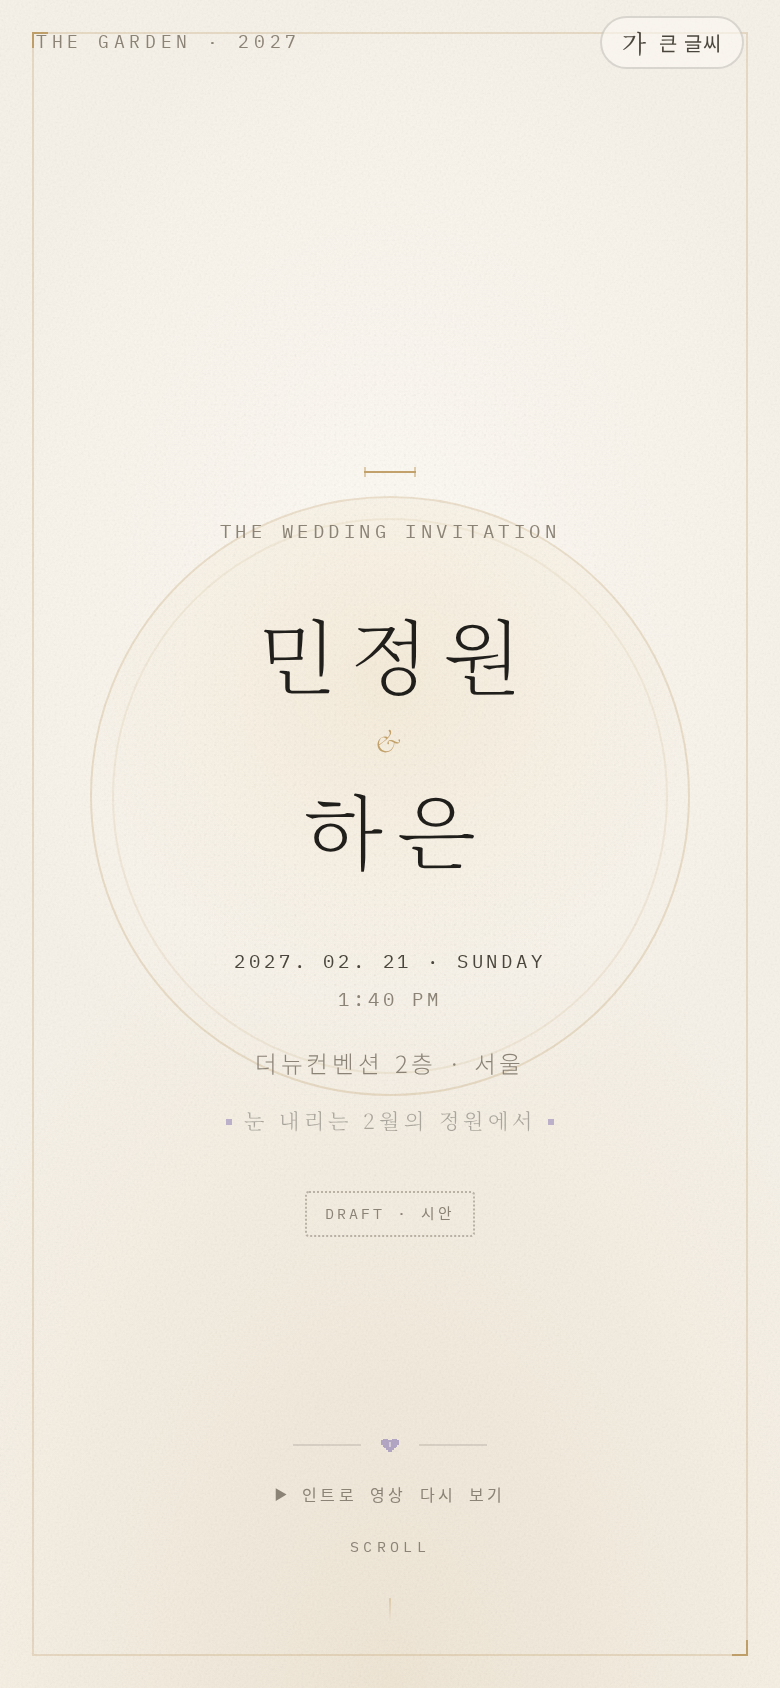
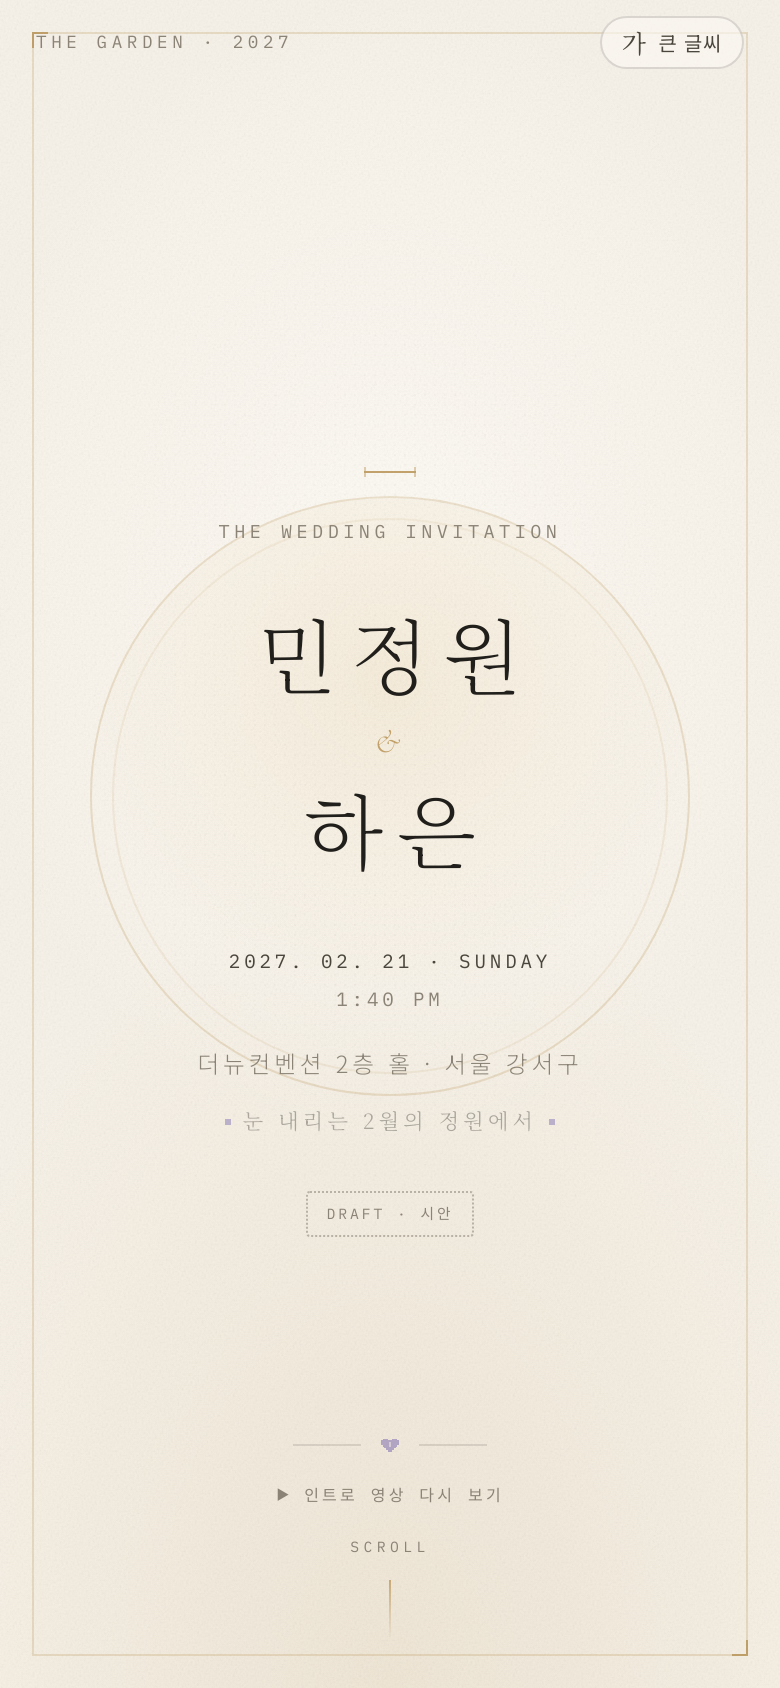
실제 예식장·오시는 길·초대 문구 반영 (더뉴컨벤션 2층 홀 · 2027-02-21 13:40)
- 예식장/주소/전화/좌표: 더뉴컨벤션웨딩, 서울특별시 강서구 공항대로36길 57 (지번 내발산동 655-2), 1661-3303, 37.5564877/126.8369635
- 표지·예식 안내·오시는 길·푸터·주소 복사·캘린더 추가·네이버/카카오/티맵 링크를 실제 정보로 통일, 샘플 표기 제거
- 오시는 길: 5호선 발산역 7번 출구, 자가용 내비 검색어, 주차 B1~B4 및 외부 주차장, 예식장 공식 안내 링크
- 초대 문구 교체('3년 전 봄' 예시 삭제)
- 모의고사: 1번은 확인된 실제 사실, 2~4번은 [예시] 임시 문항으로 명시(만점 선물/교환권 로직 유지)
- 마음 전하실 곳: 가짜 계좌·혼주 정보 제거, '예식 전 업데이트 예정' 안내만 표시
- preview_hero.png 갱신

diff --git a/index.html b/index.html
@@ -628,6 +628,13 @@ button{font-family:inherit;-webkit-tap-highlight-color:transparent}
   margin-top:12px;font-family:var(--ff-mono);font-size:.46rem;letter-spacing:.14em;
   color:rgba(237,230,216,.38);text-align:center;line-height:1.8;
 }
+.prep-note{
+  border:1px dashed rgba(237,230,216,.28);background:rgba(237,230,216,.05);
+  padding:11px 13px;margin:0 0 18px;
+  font-family:var(--ff-kr);font-size:.72rem;line-height:1.8;letter-spacing:.01em;
+  color:rgba(237,230,216,.72);
+}
+.prep-note b{font-weight:500;color:#FBF7EC}
 /* result */
 .result-top{text-align:center;padding:6px 0 2px}
 .score{
@@ -925,6 +932,8 @@ button{font-family:inherit;-webkit-tap-highlight-color:transparent}
 .info-row .k{font-family:var(--ff-mono);font-size:.5rem;letter-spacing:.16em;color:var(--ink-3);flex:0 0 52px;padding-top:4px;text-transform:uppercase}
 .info-row .v{color:var(--ink-2)}
 .info-row .v b{font-weight:400;color:var(--ink)}
+.info-row .v a{color:inherit;text-decoration:underline;text-decoration-color:var(--line);text-underline-offset:2px}
+.info-row .v a:hover{text-decoration-color:var(--ink-3)}
 
 /* ---------- with love ---------- */
 .love{background:linear-gradient(180deg,#F6F0E4 0%,#F3EBDC 100%)}
@@ -948,6 +957,9 @@ button{font-family:inherit;-webkit-tap-highlight-color:transparent}
 .acc-item.open .acc-body{grid-template-rows:1fr}
 .acc-inner{overflow:hidden}
 .acc-pad{padding:2px 2px 18px}
+.acc-item.is-empty .acc-pad{padding:16px 2px 18px}
+.acc-empty-side{font-family:var(--ff-mono);font-size:.48rem;letter-spacing:.16em;color:var(--ink-3);margin-bottom:7px}
+.acc-empty{font-family:var(--ff-kr);font-size:.82rem;line-height:1.8;color:var(--ink-2);margin:0}
 .bank{
   display:flex;align-items:center;gap:10px;
   padding:12px 0;border-top:1px solid var(--line-soft);
@@ -1190,7 +1202,7 @@ button{font-family:inherit;-webkit-tap-highlight-color:transparent}
         <span class="nm">하은</span>
       </h1>
       <p class="hero-meta">2027. 02. 21 · SUNDAY<br><span class="hm-time">1:40 PM</span></p>
-      <p class="hero-venue">더뉴컨벤션 2층 · 서울</p>
+      <p class="hero-venue">더뉴컨벤션 2층 홀 · 서울 강서구</p>
       <p class="hero-season"><span class="snowdot"></span>눈 내리는 2월의 정원에서<span class="snowdot"></span></p>
       <span class="hero-draft">Draft · 시안</span>
     </div>
@@ -1219,9 +1231,8 @@ button{font-family:inherit;-webkit-tap-highlight-color:transparent}
   <section class="sec letter-sec" id="letter">
     <p class="lead mono">Invitation</p>
     <div class="letter" data-reveal>
-      <p>3년 전 봄, 우연히 같은 자리에 앉았던 두 사람이<br>이제 같은 집에 살기로 했습니다.</p>
-      <p>많이 웃고, 조금 다투고, 서로의 하루를<br>가장 다정한 사람으로 채워가려 합니다.</p>
-      <p>저희의 첫날에 함께해 주시면<br>그 하루가 훨씬 오래 기억될 것 같습니다.</p>
+      <p>서로의 하루를 함께하며 쌓아온 마음을<br>이제 평생의 약속으로 이어가려 합니다.</p>
+      <p>저희 두 사람의 새로운 시작에 함께하시어<br>따뜻한 축복을 보내주시면 감사하겠습니다.</p>
     </div>
     <div class="sig" data-reveal>
       <span class="line"></span>
@@ -1261,8 +1272,8 @@ button{font-family:inherit;-webkit-tap-highlight-color:transparent}
         </div>
       </div>
       <div class="day-venue">
-        <p class="vn">더뉴컨벤션 2층</p>
-        <p class="va">서울 ○○구 ○○로 00 · 02-000-0000 <span class="tag">주소 예시</span></p>
+        <p class="vn">더뉴컨벤션 2층 홀</p>
+        <p class="va">서울특별시 강서구 공항대로36길 57 · 1661-3303</p>
       </div>
       <div class="day-actions">
         <button class="mini-btn" id="calBtn"><span aria-hidden="true">◷</span> 캘린더에 추가</button>
@@ -1302,6 +1313,8 @@ button{font-family:inherit;-webkit-tap-highlight-color:transparent}
     <h2 class="sec-title">커플 모의고사</h2>
     <p class="sec-sub">두 사람에 대해 얼마나 알고 계신가요?<br>4문제, 모두 맞히면 선물이 기다립니다.</p>
 
+    <p class="prep-note" data-reveal>※ <b>1번은 실제로 확인된 사실</b>이고, <b>2~4번은 실제 TMI가 확정되기 전까지 넣어 둔 임시 예시 문항</b>입니다. (문항 앞 [예시] 표시) 실제 이야기가 정해지면 그대로 교체됩니다.</p>
+
     <div class="rulebar" data-reveal>
       <svg class="rb-icon" viewBox="0 0 24 24" shape-rendering="crispEdges" aria-hidden="true">
         <rect x="4" y="9" width="16" height="12" fill="#C9A96F"/>
@@ -1324,7 +1337,7 @@ button{font-family:inherit;-webkit-tap-highlight-color:transparent}
       <div class="prog" id="prog"><i></i><i></i><i></i><i></i></div>
       <div class="q-body" id="qBody"></div>
     </div>
-    <p class="q-hint">※ 문제와 보기는 예시입니다. 실제 TMI로 교체할 수 있어요.</p>
+    <p class="q-hint">※ 2~4번은 임시 예시 문항입니다. 실제 TMI 확정 후 교체 예정이며, 만점자 전원 선물·교환권 발급은 그대로 유지됩니다.</p>
   </section>
 
   <!-- ============================================================
@@ -1414,32 +1427,36 @@ button{font-family:inherit;-webkit-tap-highlight-color:transparent}
         <!-- station -->
         <rect x="37" y="50" width="6" height="6" fill="#FFFDF8"/>
         <rect x="38" y="51" width="4" height="4" fill="#C08F82"/>
-        <text x="40" y="62" text-anchor="middle" font-family="monospace" font-size="2.6" letter-spacing=".16" fill="#8B8376">○○역</text>
-        <text x="63" y="47.5" text-anchor="middle" font-family="monospace" font-size="2.4" letter-spacing=".24" fill="#6E6656">더뉴컨벤션</text>
+        <rect x="26.5" y="56.4" width="27" height="9.4" fill="#FBF6EA"/>
+        <text x="40" y="60.8" text-anchor="middle" font-family="monospace" font-size="2.6" letter-spacing=".16" fill="#8B8376">발산역</text>
+        <text x="40" y="64.3" text-anchor="middle" font-family="monospace" font-size="2.1" letter-spacing=".12" fill="#A79C8C">7번 출구</text>
+        <text x="63" y="35" text-anchor="middle" font-family="monospace" font-size="2.2" letter-spacing=".2" fill="#6E6656">더뉴컨벤션</text>
       </svg>
     </div>
 
     <div class="addr">
       <p class="al">Address</p>
-      <p class="av">서울 ○○구 ○○로 00<br><span class="sub">더뉴컨벤션 2층 <span class="tag">주소 예시</span></span></p>
+      <p class="av">서울특별시 강서구 공항대로36길 57<br><span class="sub">지번 서울특별시 강서구 내발산동 655-2</span></p>
     </div>
 
     <div class="maps">
-      <a class="mapbtn" href="https://map.naver.com/p/search/%EC%84%9C%EC%9A%B8%20%EA%B0%95%EB%82%A8%EA%B5%AC%20%E2%97%8B%E2%97%8B%EB%A1%9C%2000" target="_blank" rel="noopener">
+      <a class="mapbtn" href="https://map.naver.com/p/search/%EB%8D%94%EB%89%B4%EC%BB%A8%EB%B2%A4%EC%85%98%EC%9B%A8%EB%94%A9" target="_blank" rel="noopener">
         <span class="mi naver">N</span>네이버지도
       </a>
-      <a class="mapbtn" href="https://map.kakao.com/link/search/%EC%84%9C%EC%9A%B8%20%EA%B0%95%EB%82%A8%EA%B5%AC%20%E2%97%8B%E2%97%8B%EB%A1%9C%2000" target="_blank" rel="noopener">
+      <a class="mapbtn" href="https://map.kakao.com/link/search/%EB%8D%94%EB%89%B4%EC%BB%A8%EB%B2%A4%EC%85%98%EC%9B%A8%EB%94%A9" target="_blank" rel="noopener">
         <span class="mi kakao">K</span>카카오맵
       </a>
-      <a class="mapbtn" href="tmap://route?goalname=%EC%98%88%EC%8B%9C%20%EC%9B%A8%EB%94%A9%ED%99%80&goalx=127.03&goaly=37.50">
+      <a class="mapbtn" href="tmap://route?goalname=%EB%8D%94%EB%89%B4%EC%BB%A8%EB%B2%A4%EC%85%98%EC%9B%A8%EB%94%A9&amp;goalx=126.8369635&amp;goaly=37.5564877">
         <span class="mi tmap">T</span>티맵
       </a>
     </div>
 
     <div class="info-rows">
-      <div class="info-row"><span class="k">Subway</span><span class="v"><b>○○역 3번 출구</b> 도보 5분 · 엘리베이터는 3번 출구 앞</span></div>
-      <div class="info-row"><span class="k">Parking</span><span class="v">지하 주차장 <b>2시간 무료</b> · 접수처에서 등록</span></div>
-      <div class="info-row"><span class="k">Bus</span><span class="v">간선 000 · 지선 0000 <b>○○역 정류장</b> 하차</span></div>
+      <div class="info-row"><span class="k">Subway</span><span class="v"><b>5호선 발산역 7번 출구</b> 도보 약 2분</span></div>
+      <div class="info-row"><span class="k">Car</span><span class="v">내비게이션에 <b>더뉴컨벤션웨딩</b> 또는 <b>서울특별시 강서구 공항대로36길 57</b> 검색</span></div>
+      <div class="info-row"><span class="k">Parking</span><span class="v">건물 지하 <b>B1~B4</b> 및 외부 주차장 이용 가능</span></div>
+      <div class="info-row"><span class="k">Tel</span><span class="v"><a href="tel:16613303"><b>1661-3303</b></a></span></div>
+      <div class="info-row"><span class="k">Site</span><span class="v"><a href="https://thenewwed.kr/Location" target="_blank" rel="noopener">더뉴컨벤션 공식 오시는 길 안내</a></span></div>
     </div>
   </section>
 
@@ -1451,7 +1468,7 @@ button{font-family:inherit;-webkit-tap-highlight-color:transparent}
       <span class="sec-idx">05</span><span class="rule"></span><span class="sec-label">With Love</span>
     </header>
     <h2 class="sec-title">마음 전하실 곳</h2>
-    <p class="sec-sub">축하의 마음을 조용히 전하고 싶으신 분들을 위해<br>계좌를 준비해 두었습니다.</p>
+    <p class="sec-sub">축하의 마음을 조용히 전하고 싶으신 분들을 위해<br>혼주와 계좌 정보를 예식 전 안내드릴 예정입니다.</p>
     <div class="acc" id="acc"></div>
     <p class="love-note">마음만으로도 충분히 감사드립니다.<br>따뜻한 축하 한마디가 가장 큰 선물입니다.</p>
   </section>
@@ -1547,51 +1564,51 @@ const CONFIG = {
   bride: '하은',
   dateISO: '2027-02-21T13:40:00+09:00',
   dateLabel: '2027. 02. 21 SUNDAY',
-  venue: '더뉴컨벤션 2층',
-  address: '서울 ○○구 ○○로 00',
-  venueTel: '02-000-0000',
-  lat: 37.50,
-  lng: 127.03,
+  venue: '더뉴컨벤션 2층 홀',
+  address: '서울특별시 강서구 공항대로36길 57',
+  addressJibeon: '서울특별시 강서구 내발산동 655-2',
+  venueTel: '1661-3303',
+  // 예식장 공식 오시는 길 안내 페이지
+  venueSite: 'https://thenewwed.kr/Location',
+  lat: 37.5564877,
+  lng: 126.8369635,
   // 인트로 영상: mp4/webm 파일명을 넣으면 그대로 재생됩니다. 비우면 애니메이션 시안이 나옵니다.
   introVideo: '',
   // 방명록을 실제로 모으려면 이 엔드포인트로 POST 합니다 (Supabase RPC, Apps Script 등).
   guestbookEndpoint: '',
-  // 모의고사: correct 는 정답 index(0부터). 자유롭게 교체하세요.
+  // 모의고사: correct 는 정답 index(0부터).
+  // 1번은 확인된 실제 사실, 2~4번은 실제 TMI 확정 전까지의 임시 예시 문항입니다.
   quiz: [
     {
-      q: '신랑이 신부에게 처음 고백한 장소는?',
-      options: ['회사 옥상', '한강 뚝섬', '동네 편의점 앞', '영화관 뒷자리'],
+      q: '신랑 정원이 가장 좋아하는 취미는?',
+      options: ['러닝', 'AI와 사람을 고찰하고 이해하는 것', '드럼', '캠핑'],
       correct: 1,
-      note: '바람이 너무 세서 같은 말을 두 번 했다고 합니다.'
+      note: '정원이 직접 답한 취미입니다. 사람과 AI를 들여다보고 이해하는 일을 가장 좋아합니다.'
     },
     {
-      q: '두 사람이 처음 함께 떠난 여행지는?',
-      options: ['오사카', '후쿠오카', '다낭', '타이베이'],
-      correct: 1,
-      note: '새벽 4시 공항에서 찍은 졸린 사진이 아직 남아 있어요.'
+      q: '[예시] 두 사람이 처음 만난 계절은?',
+      options: ['봄', '여름', '가을', '겨울'],
+      correct: 0,
+      note: '※ 임시 예시 문항입니다. 실제 이야기가 확정되면 교체됩니다.'
     },
     {
-      q: '신부가 아침에 제일 먼저 하는 일은?',
-      options: ['커피 내리기', '물 한 잔', '폰 확인하기', '스트레칭'],
-      correct: 1,
-      note: '그 컵은 늘 신랑이 설거지합니다.'
+      q: '[예시] 두 사람이 자주 하는 데이트는?',
+      options: ['동네 산책', '전시 관람', '영화관', '집에서 요리'],
+      correct: 0,
+      note: '※ 임시 예시 문항입니다. 실제 이야기가 확정되면 교체됩니다.'
     },
     {
-      q: '신랑의 요즘 취미는?',
-      options: ['러닝', '드럼', '요리', '독서'],
-      correct: 2,
-      note: '주말마다 파스타를 시험합니다. 합격은 아직입니다.'
+      q: '[예시] 두 사람이 처음 함께 떠난 여행지는?',
+      options: ['오사카', '다낭', '타이베이', '제주'],
+      correct: 3,
+      note: '※ 임시 예시 문항입니다. 실제 이야기가 확정되면 교체됩니다.'
     }
   ],
+  // 마음 전하실 곳: 혼주·계좌·연락처가 확정되면 아래 배열에 실제 값만 넣으면 됩니다.
+  // 비어 있으면 화면에는 가짜 번호 대신 "준비 중" 안내만 표시됩니다.
   accounts: {
-    groom: [
-      { bank: '국민은행', number: '000-0000-0000', holder: '민정원' },
-      { bank: '신한은행', number: '000-000-000000', holder: '○ ○ ○ (모)' }
-    ],
-    bride: [
-      { bank: '국민은행', number: '000-0000-0000', holder: '하은' },
-      { bank: '하나은행', number: '000-000000-00000', holder: '○ ○ ○ (모)' }
-    ]
+    groom: [],
+    bride: []
   }
 };
 
@@ -2314,7 +2331,7 @@ const GB_SEED = [
   { name: '김하늘', msg: '두 사람 웃는 얼굴이 제일 예뻐요. 오래오래 행복하세요!', look: { h: 1, hc: 3, o: 0, oc: 0, f: 0, p: 1 } },
   { name: '이준서', msg: '정원아 드디어! 축가 준비했으니 기대해.', look: { h: 3, hc: 2, o: 1, oc: 1, f: 3, p: 3 } },
   { name: '박서연', msg: '신부님 오늘 너무 예쁘세요. 사진 많이 찍어둘게요.', look: { h: 4, hc: 0, o: 3, oc: 0, f: 2, p: 1 } },
-  { name: '정다온', msg: '3년 전 그 봄날을 기억해요. 축하해요, 두 사람.', look: { h: 2, hc: 2, o: 1, oc: 1, f: 1, p: 2 } },
+  { name: '정다온', msg: '두 사람의 첫날, 멀리서도 마음 다해 축하해요.', look: { h: 2, hc: 2, o: 1, oc: 1, f: 1, p: 2 } },
   { name: '최은결', msg: '두 분의 정원에 꽃 한 송이 놓고 갑니다.', look: { h: 5, hc: 4, o: 4, oc: 2, f: 0, p: 3 } }
 ];
 
@@ -2761,15 +2778,24 @@ if (gbSheet) {
 
 /* ---------- 07. accounts ---------- */
 const acc = $('#acc');
+const accRows = (rows) => (Array.isArray(rows) ? rows : []).filter(r => r && r.bank && r.number && r.holder);
+const accHas = (rows) => accRows(rows).length > 0;
 function accHTML(side, label, rows) {
   const isGroom = side === 'groom';
+  const list = accRows(rows);
+  if (!list.length) {
+    return '<div class="acc-item is-empty"><div class="acc-pad">' +
+      '<p class="acc-empty-side">' + (isGroom ? '신랑측' : '신부측') + ' · ' + esc(label) + '</p>' +
+      '<p class="acc-empty">혼주 및 계좌 정보는 예식 전 업데이트 예정입니다.</p>' +
+    '</div></div>';
+  }
   return '<div class="acc-item' + (isGroom ? ' open' : '') + '">' +
     '<button class="acc-head" type="button" aria-expanded="' + isGroom + '">' +
       '<span>' + (isGroom ? '신랑측' : '신부측') + '<span class="side-n">' + esc(label) + '</span></span>' +
       '<span class="ind"></span>' +
     '</button>' +
     '<div class="acc-body"><div class="acc-inner"><div class="acc-pad">' +
-      rows.map(r =>
+      list.map(r =>
         '<div class="bank"><div class="bn">' +
           '<div class="b-name">' + esc(r.bank) + '</div>' +
           '<div class="b-num">' + esc(r.number) + '</div>' +
@@ -2778,9 +2804,10 @@ function accHTML(side, label, rows) {
       ).join('') +
     '</div></div></div></div>';
 }
-acc.innerHTML =
-  accHTML('groom', 'GROOM', CONFIG.accounts.groom) +
-  accHTML('bride', 'BRIDE', CONFIG.accounts.bride);
+acc.innerHTML = (!accHas(CONFIG.accounts.groom) && !accHas(CONFIG.accounts.bride))
+  ? '<div class="acc-item is-empty"><div class="acc-pad"><p class="acc-empty">혼주 및 계좌 정보는 예식 전 업데이트 예정입니다.</p></div></div>'
+  : accHTML('groom', 'GROOM', CONFIG.accounts.groom) +
+    accHTML('bride', 'BRIDE', CONFIG.accounts.bride);
 
 $$('.acc-head', acc).forEach(h => h.addEventListener('click', () => {
   const item = h.parentElement;
@@ -2803,7 +2830,7 @@ $('#calBtn').addEventListener('click', () => {
     '&details=' + encodeURIComponent('두 사람의 결혼식에 초대합니다.');
   window.open(url, '_blank', 'noopener');
 });
-$('#copyAddrBtn').addEventListener('click', () => copyText(CONFIG.address, '주소를 복사했습니다'));
+$('#copyAddrBtn').addEventListener('click', () => copyText(CONFIG.venue + '\n' + CONFIG.address, '주소를 복사했습니다'));
 $('#shareBtn').addEventListener('click', async () => {
   const data = { title: CONFIG.groom + ' ♥ ' + CONFIG.bride, text: '2027. 02. 21, 두 사람의 첫날에 초대합니다.', url: location.href };
   if (navigator.share) {

diff --git a/README.md b/README.md
@@ -2,6 +2,13 @@
 
 `work/wedding-invitation/index.html` 시안을 폰에서 바로 열어보기 위한 GitHub Pages 배포본입니다.
 
-- 실제 예식 정보(신랑·신부, 일시, 예식장)만 반영된 시안이고, 주소·전화·계좌·모의고사 문제·영상은 아직 더미입니다.
+- 실제 예식 정보가 반영되어 있습니다.
+  - 신랑 민정원 · 신부 하은
+  - 2027년 2월 21일 일요일 오후 1시 40분
+  - 더뉴컨벤션 2층 홀 · 서울특별시 강서구 공항대로36길 57 (지번 내발산동 655-2) · 1661-3303
+  - 오시는 길: 5호선 발산역 7번 출구 / 주차 B1~B4 및 외부 주차장 / 좌표 37.5564877, 126.8369635
+- 아직 확정되지 않은 항목은 화면에 가짜 값 대신 안내 문구로 표시됩니다.
+  - 커플 모의고사: 1번(신랑 취미)만 실제 사실, 2~4번은 `[예시]` 표시된 임시 문항
+  - 마음 전하실 곳: 혼주·계좌 정보는 "예식 전 업데이트 예정" 안내만 표시
 - 검색 노출을 막기 위해 모든 페이지에 `noindex, nofollow` 메타 태그와 `robots.txt`(`Disallow: /`)를 넣었습니다.
 - 링크를 아는 사람만 열람할 수 있지만, 저장소가 공개(public)이므로 파일 자체는 누구나 볼 수 있습니다. 실제 청첩장으로 확정될 때는 접근 제한 방식을 다시 정하는 것이 좋습니다.
